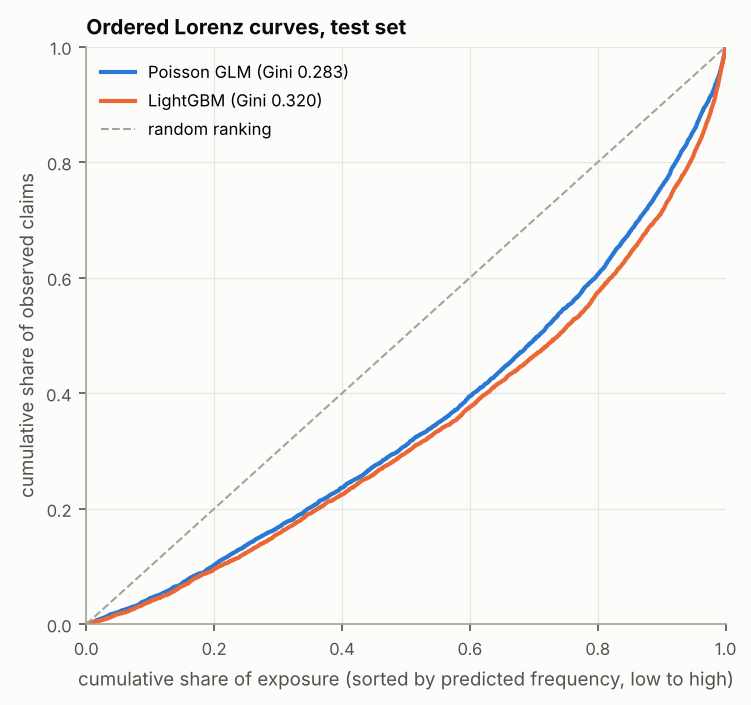
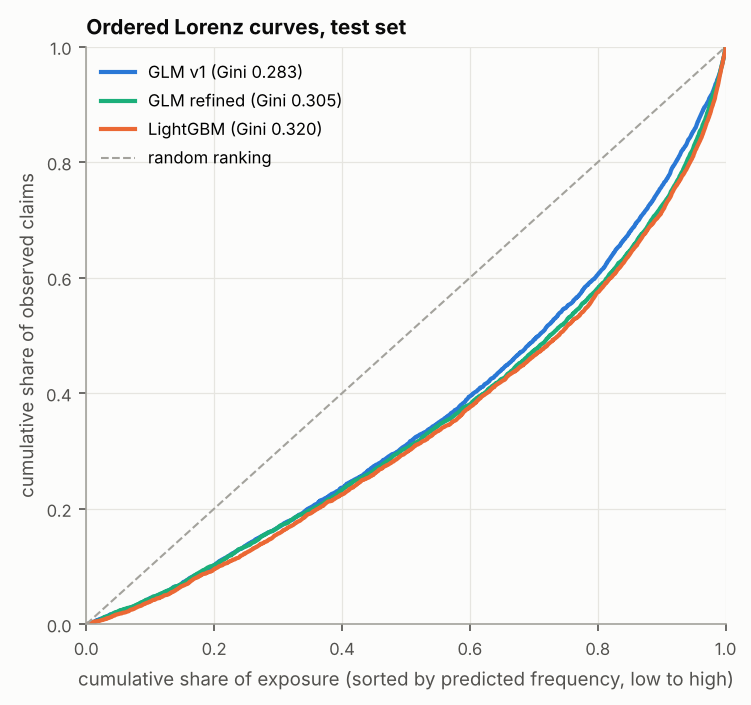
Add 5-fold CV of GLM vs LightGBM and paired bootstrap CI on the test Gini gap

diff --git a/src/validation.py b/src/validation.py
@@ -1,0 +1,152 @@
+"""Stage 5: how stable is the GLM-GBM comparison?
+
+1. 5-fold cross-validation on the training set. Folds are assigned by policy
+   in ``src/prepare.py``. The GLM out-of-fold predictions come from
+   ``R/fit_freq_extensions.R`` (same terms, refitted on each set of 4 folds);
+   here LightGBM is refitted on each set of 4 folds with the hyper-parameters
+   and number of rounds selected in ``src/gbm.py``.
+2. Paired bootstrap of the test set: policies are resampled with replacement
+   and the Gini index of every model is recomputed on the *same* resample, so
+   the confidence interval is for the Gini gap between models.
+
+Outputs
+-------
+reports/tables/cv_folds.csv            deviance and Gini per fold and model
+reports/tables/cv_summary.csv          mean and sd across folds, paired gaps
+reports/tables/bootstrap_gini_gap.csv  test Gini gaps with 95% percentile intervals
+"""
+
+from __future__ import annotations
+
+import time
+
+import lightgbm as lgb
+import numpy as np
+import pandas as pd
+
+from src import config, evaluate, gbm, metrics
+
+MODELS = {
+    "freq_glm": "Poisson GLM v1",
+    "freq_glm_refined": "Poisson GLM refined",
+    "freq_gbm": "LightGBM",
+}
+
+
+def gbm_oof_predictions(train: pd.DataFrame, best: pd.Series) -> pd.Series:
+    """Out-of-fold LightGBM frequency predictions (hyper-parameters fixed, one fit per fold)."""
+    params = {**gbm.BASE_PARAMS, **{k: int(best[k]) for k in gbm.GRID}}
+    oof = pd.Series(np.nan, index=train.index)
+    for k in sorted(train["CVFold"].unique()):
+        t0 = time.time()
+        fit, hold = train[train["CVFold"] != k], train[train["CVFold"] == k]
+        X_fit, cats = gbm.make_features(fit)
+        X_hold, _ = gbm.make_features(hold, cats)
+        booster = lgb.train(params, gbm.make_dataset(X_fit, fit["ClaimNb"], fit["Exposure"]),
+                            num_boost_round=int(best["best_iteration"]))
+        oof.loc[hold.index] = booster.predict(X_hold)
+        print(f"  GBM fold {k}: {time.time() - t0:.1f} s", flush=True)
+    return oof
+
+
+def fold_metrics(df: pd.DataFrame, fold_col: str = "CVFold") -> pd.DataFrame:
+    """Mean Poisson deviance and Gini of every model in ``MODELS`` on each fold."""
+    rows = []
+    for k, s in df.groupby(fold_col):
+        y, e = s["ClaimNb"].to_numpy(), s["Exposure"].to_numpy()
+        for col, name in MODELS.items():
+            rows.append({"fold": int(k), "model": name, "policies": len(s),
+                         "mean_poisson_deviance": metrics.mean_poisson_deviance(y, s[col].to_numpy() * e),
+                         "gini": metrics.gini(y, s[col].to_numpy(), e)})
+    return pd.DataFrame(rows)
+
+
+def summarise_folds(folds: pd.DataFrame, reference: str = "LightGBM") -> pd.DataFrame:
+    """Mean and sd across folds per model, plus the paired gap to ``reference`` (same folds)."""
+    rows = []
+    ref = folds[folds["model"] == reference].set_index("fold")
+    for name, s in folds.groupby("model", sort=False):
+        s = s.set_index("fold")
+        row = {"model": name}
+        for m in ["mean_poisson_deviance", "gini"]:
+            row[f"{m}_mean"] = s[m].mean()
+            row[f"{m}_sd"] = s[m].std(ddof=1)
+            if name != reference:
+                gap = ref[m] - s[m]
+                row[f"{m}_gap_{reference}_minus_model_mean"] = gap.mean()
+                row[f"{m}_gap_{reference}_minus_model_sd"] = gap.std(ddof=1)
+                row[f"folds_where_{reference}_better_{m}"] = int(
+                    (gap < 0).sum() if m == "mean_poisson_deviance" else (gap > 0).sum())
+        rows.append(row)
+    return pd.DataFrame(rows)
+
+
+def bootstrap_gini(y: np.ndarray, exposure: np.ndarray, preds: dict[str, np.ndarray],
+                   n_boot: int = config.N_BOOTSTRAP, seed: int = config.SEED) -> pd.DataFrame:
+    """Gini of each model on ``n_boot`` paired bootstrap resamples of the rows.
+
+    A resample is represented by integer counts (how many times each row is
+    drawn); the Gini of a resample is then the weighted Gini with those
+    counts, so each model's sort order is computed only once.
+    """
+    n = len(y)
+    rng = np.random.default_rng(seed)
+    orders = {k: np.argsort(np.asarray(p), kind="mergesort") for k, p in preds.items()}
+    y = np.asarray(y, dtype=float)
+    exposure = np.asarray(exposure, dtype=float)
+    out = {k: np.empty(n_boot) for k in preds}
+    for b in range(n_boot):
+        w = np.bincount(rng.integers(0, n, n), minlength=n).astype(float)
+        for k, o in orders.items():
+            ew, yw = (exposure * w)[o], (y * w)[o]
+            x = np.concatenate([[0.0], np.cumsum(ew) / ew.sum()])
+            c = np.concatenate([[0.0], np.cumsum(yw) / yw.sum()])
+            out[k][b] = 1.0 - 2.0 * np.trapezoid(c, x)
+    return pd.DataFrame(out)
+
+
+def gap_intervals(y: np.ndarray, exposure: np.ndarray, preds: dict[str, np.ndarray],
+                  boot: pd.DataFrame, pairs: list[tuple[str, str]]) -> pd.DataFrame:
+    """Point estimate and 95% percentile interval of Gini(a) - Gini(b) for each pair."""
+    rows = []
+    for a, b in pairs:
+        gap = boot[a] - boot[b]
+        rows.append({"comparison": f"{MODELS[a]} minus {MODELS[b]}",
+                     "test_gini_gap": metrics.gini(y, preds[a], exposure) - metrics.gini(y, preds[b], exposure),
+                     "bootstrap_sd": gap.std(ddof=1),
+                     "ci95_lower": gap.quantile(0.025), "ci95_upper": gap.quantile(0.975),
+                     "share_of_resamples_gap_positive": (gap > 0).mean(),
+                     "replicates": len(gap)})
+    return pd.DataFrame(rows)
+
+
+def main() -> None:
+    """Entry point: GBM out-of-fold fits, CV tables, test bootstrap."""
+    t0 = time.time()
+    train = pd.read_csv(config.PROCESSED_DIR / "train.csv")
+    best = pd.read_csv(config.TABLE_DIR / "gbm_tuning.csv").iloc[0]
+    train["freq_gbm"] = gbm_oof_predictions(train, best)
+    glm_oof = pd.read_csv(config.PROCESSED_DIR / "glm_cv_predictions.csv")
+    cv = train.merge(glm_oof.drop(columns="CVFold"), on="IDpol", validate="one_to_one")
+    if len(cv) != len(train):
+        raise ValueError("GLM out-of-fold predictions do not cover the training set")
+
+    folds = fold_metrics(cv)
+    folds.round(5).to_csv(config.TABLE_DIR / "cv_folds.csv", index=False)
+    summary = summarise_folds(folds)
+    summary.round(5).to_csv(config.TABLE_DIR / "cv_summary.csv", index=False)
+    print(summary.round(4).T.to_string())
+
+    test = evaluate.load_test_predictions()
+    y, e = test["ClaimNb"].to_numpy(), test["Exposure"].to_numpy()
+    preds = {k: test[k].to_numpy() for k in MODELS}
+    boot = bootstrap_gini(y, e, preds)
+    gaps = gap_intervals(y, e, preds, boot, [("freq_gbm", "freq_glm"), ("freq_gbm", "freq_glm_refined"),
+                                             ("freq_glm_refined", "freq_glm")])
+    gaps.round(5).to_csv(config.TABLE_DIR / "bootstrap_gini_gap.csv", index=False)
+    print(gaps.round(4).to_string(index=False))
+    print(f"Validation stage runtime: {time.time() - t0:.1f} s")
+
+
+if __name__ == "__main__":
+    main()

diff --git a/src/evaluate.py b/src/evaluate.py
@@ -21,19 +21,24 @@ def load_test_predictions() -> pd.DataFrame:
     """Test policies joined with GLM and GBM predictions (by IDpol)."""
     test = pd.read_csv(config.PROCESSED_DIR / "test.csv")
     glm = pd.read_csv(config.PROCESSED_DIR / "glm_test_predictions.csv")
+    refined = pd.read_csv(config.PROCESSED_DIR / "glm_refined_test_predictions.csv")
     gbm = pd.read_csv(config.PROCESSED_DIR / "gbm_test_predictions.csv")
-    out = test.merge(glm, on="IDpol", validate="one_to_one").merge(gbm, on="IDpol", validate="one_to_one")
+    out = (test.merge(glm, on="IDpol", validate="one_to_one")
+           .merge(refined, on="IDpol", validate="one_to_one")
+           .merge(gbm, on="IDpol", validate="one_to_one"))
     if len(out) != len(test):
         raise ValueError("prediction files do not cover the test set")
     return out
 
 
 def frequency_metrics(df: pd.DataFrame, train_freq: float) -> pd.DataFrame:
-    """Deviance, D^2, Gini and balance for the null model, the GLM and the GBM."""
+    """Deviance, D^2, Gini and balance for the null model, the GLMs and the GBM."""
     y, e = df["ClaimNb"].to_numpy(), df["Exposure"].to_numpy()
     preds = {
         "Null (train mean frequency)": np.full(len(df), train_freq),
-        "Poisson GLM (R)": df["freq_glm"].to_numpy(),
+        "Poisson GLM v1 (R)": df["freq_glm"].to_numpy(),
+        "Poisson GLM refined (R)": df["freq_glm_refined"].to_numpy(),
+        "Negative binomial GLM refined (R)": df["freq_glm_nb"].to_numpy(),
         "LightGBM Poisson (Python)": df["freq_gbm"].to_numpy(),
     }
     dev_null = metrics.poisson_deviance(y, preds["Null (train mean frequency)"] * e)
@@ -52,11 +57,23 @@ def frequency_metrics(df: pd.DataFrame, train_freq: float) -> pd.DataFrame:
     return pd.DataFrame(rows)
 
 
+def gap_closed(fm: pd.DataFrame) -> pd.DataFrame:
+    """Share of the GLM v1 -> GBM gap (deviance and Gini) closed by the refined GLM."""
+    m = fm.set_index("model")
+    v1, ref, g = m.loc["Poisson GLM v1 (R)"], m.loc["Poisson GLM refined (R)"], m.loc["LightGBM Poisson (Python)"]
+    rows = []
+    for col in ["mean_poisson_deviance", "gini"]:
+        rows.append({"metric": col, "glm_v1": v1[col], "glm_refined": ref[col], "gbm": g[col],
+                     "gap_v1_to_gbm": g[col] - v1[col], "share_closed_pct": 100 * (ref[col] - v1[col]) / (g[col] - v1[col])})
+    return pd.DataFrame(rows)
+
+
 def plot_lorenz(df: pd.DataFrame) -> None:
     """Ordered Lorenz curves of the two models on the test set."""
     fig, ax = plotting.plt.subplots(figsize=(5.5, 5))
     y, e = df["ClaimNb"].to_numpy(), df["Exposure"].to_numpy()
-    for col, name, color in [("freq_glm", "Poisson GLM", plotting.BLUE), ("freq_gbm", "LightGBM", plotting.ORANGE)]:
+    for col, name, color in [("freq_glm", "GLM v1", plotting.BLUE), ("freq_glm_refined", "GLM refined", plotting.AQUA),
+                             ("freq_gbm", "LightGBM", plotting.ORANGE)]:
         x, c = metrics.lorenz_curve(y, df[col].to_numpy(), e)
         idx = np.linspace(0, len(x) - 1, 2000).astype(int)
         ax.plot(x[idx], c[idx], color=color, label=f"{name} (Gini {metrics.gini(y, df[col].to_numpy(), e):.3f})")
@@ -152,7 +169,7 @@ def twin_robustness(df: pd.DataFrame) -> pd.DataFrame:
         s = df[mask]
         y, e = s["ClaimNb"].to_numpy(), s["Exposure"].to_numpy()
         row = {"subset": label, "policies": int(mask.sum()), "observed_frequency": y.sum() / e.sum()}
-        for col, name in [("freq_glm", "glm"), ("freq_gbm", "gbm")]:
+        for col, name in [("freq_glm", "glm"), ("freq_glm_refined", "glm_refined"), ("freq_gbm", "gbm")]:
             row[f"mean_deviance_{name}"] = metrics.mean_poisson_deviance(y, s[col].to_numpy() * e)
             row[f"gini_{name}"] = metrics.gini(y, s[col].to_numpy(), e)
         rows.append(row)
@@ -181,6 +198,13 @@ def main() -> None:
     fm = frequency_metrics(df, train_freq)
     fm.round(5).to_csv(config.TABLE_DIR / "test_metrics.csv", index=False)
     print(fm.round(4).to_string(index=False))
+    gc = gap_closed(fm)
+    gc.round(5).to_csv(config.TABLE_DIR / "gap_closed.csv", index=False)
+    print(gc.round(4).to_string(index=False))
+    dl_ref = metrics.double_lift(df["ClaimNb"].to_numpy(), df["freq_gbm"].to_numpy(),
+                                 df["freq_glm_refined"].to_numpy(), df["Exposure"].to_numpy())
+    dl_ref.rename(columns=lambda c: c.replace("pred_a", "pred_gbm").replace("pred_b", "pred_glm_refined")).round(4).to_csv(
+        config.TABLE_DIR / "double_lift_refined.csv", index=False)
 
     dl = metrics.double_lift(df["ClaimNb"].to_numpy(), df["freq_gbm"].to_numpy(), df["freq_glm"].to_numpy(),
                              df["Exposure"].to_numpy())

diff --git a/tests/test_validation.py b/tests/test_validation.py
@@ -1,0 +1,56 @@
+"""Tests for the cross-validation summaries and the paired bootstrap of the Gini gap."""
+
+import numpy as np
+import pandas as pd
+import pytest
+
+from src import metrics, validation
+
+
+@pytest.fixture
+def small_portfolio() -> pd.DataFrame:
+    rng = np.random.default_rng(1)
+    n = 3000
+    x = rng.normal(size=n)
+    e = rng.uniform(0.2, 1.0, n)
+    true = 0.1 * np.exp(0.8 * x)
+    return pd.DataFrame({
+        "ClaimNb": rng.poisson(true * e), "Exposure": e, "CVFold": np.arange(n) % 3 + 1,
+        # GLMs see the risk driver through noise (different ranking), the "GBM" sees it exactly.
+        "freq_glm": 0.1 * np.exp(0.8 * (x + rng.normal(scale=1.5, size=n))),
+        "freq_glm_refined": 0.1 * np.exp(0.8 * (x + rng.normal(scale=0.7, size=n))),
+        "freq_gbm": true,                           # true model
+    })
+
+
+def test_weighted_gini_equals_gini_on_repeated_rows():
+    rng = np.random.default_rng(0)
+    y, e, p = rng.poisson(0.3, 200), rng.uniform(0.1, 1, 200), rng.uniform(size=200)
+    w = rng.integers(0, 4, 200)
+    rep = np.repeat(np.arange(200), w)
+    assert metrics.gini(y, p, e, sample_weight=w) == pytest.approx(metrics.gini(y[rep], p[rep], e[rep]), abs=1e-12)
+
+
+def test_fold_metrics_and_summary(small_portfolio):
+    folds = validation.fold_metrics(small_portfolio)
+    assert len(folds) == 3 * len(validation.MODELS)
+    summary = validation.summarise_folds(folds).set_index("model")
+    gap = summary.loc["Poisson GLM v1", "gini_gap_LightGBM_minus_model_mean"]
+    assert gap > 0
+    assert summary.loc["Poisson GLM v1", "folds_where_LightGBM_better_gini"] == 3
+    assert np.isnan(summary.loc["LightGBM"].get("gini_gap_LightGBM_minus_model_mean", np.nan))
+
+
+def test_bootstrap_gini_is_reproducible_and_centred(small_portfolio):
+    df = small_portfolio
+    y, e = df["ClaimNb"].to_numpy(), df["Exposure"].to_numpy()
+    preds = {k: df[k].to_numpy() for k in validation.MODELS}
+    b1 = validation.bootstrap_gini(y, e, preds, n_boot=200, seed=3)
+    b2 = validation.bootstrap_gini(y, e, preds, n_boot=200, seed=3)
+    pd.testing.assert_frame_equal(b1, b2)
+    full = metrics.gini(y, preds["freq_gbm"], e)
+    assert abs(b1["freq_gbm"].mean() - full) < 3 * b1["freq_gbm"].std()
+    gaps = validation.gap_intervals(y, e, preds, b1, [("freq_gbm", "freq_glm")])
+    row = gaps.iloc[0]
+    assert row["ci95_lower"] < row["test_gini_gap"] < row["ci95_upper"]
+    assert row["ci95_lower"] > 0  # the true model ranks clearly better than the weak one

diff --git a/src/metrics.py b/src/metrics.py
@@ -29,28 +29,34 @@ def mean_poisson_deviance(y: np.ndarray, mu: np.ndarray) -> float:
     return poisson_deviance(y, mu) / len(y)
 
 
-def lorenz_curve(y: np.ndarray, pred_freq: np.ndarray, exposure: np.ndarray) -> tuple[np.ndarray, np.ndarray]:
+def lorenz_curve(
+    y: np.ndarray, pred_freq: np.ndarray, exposure: np.ndarray, sample_weight: np.ndarray | None = None
+) -> tuple[np.ndarray, np.ndarray]:
     """Ordered Lorenz (concentration) curve.
 
     Policies are sorted from the lowest to the highest predicted frequency;
     returns the cumulative share of exposure (x) and of observed claims (y),
-    both starting at 0.
+    both starting at 0. ``sample_weight`` (e.g. bootstrap counts) multiplies
+    both exposure and claims, which is the same as repeating each row.
     """
     order = np.argsort(np.asarray(pred_freq), kind="mergesort")
-    exp_sorted = np.asarray(exposure, dtype=float)[order]
-    y_sorted = np.asarray(y, dtype=float)[order]
+    w = np.ones(len(order)) if sample_weight is None else np.asarray(sample_weight, dtype=float)
+    exp_sorted = (np.asarray(exposure, dtype=float) * w)[order]
+    y_sorted = (np.asarray(y, dtype=float) * w)[order]
     x = np.concatenate([[0.0], np.cumsum(exp_sorted) / exp_sorted.sum()])
     c = np.concatenate([[0.0], np.cumsum(y_sorted) / y_sorted.sum()])
     return x, c
 
 
-def gini(y: np.ndarray, pred_freq: np.ndarray, exposure: np.ndarray) -> float:
+def gini(
+    y: np.ndarray, pred_freq: np.ndarray, exposure: np.ndarray, sample_weight: np.ndarray | None = None
+) -> float:
     """Gini index = 1 - 2 * area under the ordered Lorenz curve.
 
     0 for a model that does not rank risks better than random; larger is
     better. Ties in the prediction are broken by input order.
     """
-    x, c = lorenz_curve(y, pred_freq, exposure)
+    x, c = lorenz_curve(y, pred_freq, exposure, sample_weight)
     area = np.trapezoid(c, x)
     return float(1.0 - 2.0 * area)
 

diff --git a/src/pipeline.py b/src/pipeline.py
@@ -1,7 +1,9 @@
 """Single entry point: ``python -m src.pipeline`` (run from the project root).
 
 Stages: download -> prepare (Python) -> one-way analyses (Python)
--> GLMs (R) -> LightGBM (Python) -> evaluation (Python).
+-> GLMs (R) -> frequency GLM extensions: refinement, negative binomial,
+cross-validation fits (R) -> LightGBM (Python) -> test evaluation (Python)
+-> cross-validation and bootstrap (Python).
 """
 
 from __future__ import annotations
@@ -11,7 +13,7 @@ import time
 
 import pandas as pd
 
-from src import config, evaluate, gbm, oneway, prepare
+from src import config, evaluate, gbm, oneway, prepare, validation
 
 
 def run_r(script: str) -> None:
@@ -27,8 +29,10 @@ def main() -> None:
         ("prepare", prepare.main),
         ("oneway", oneway.main),
         ("glm_r", lambda: run_r("R/fit_glm.R")),
+        ("glm_extensions_r", lambda: run_r("R/fit_freq_extensions.R")),
         ("gbm", gbm.main),
         ("evaluate", evaluate.main),
+        ("validation", validation.main),
     ]
     times = []
     for name, fn in stages:
